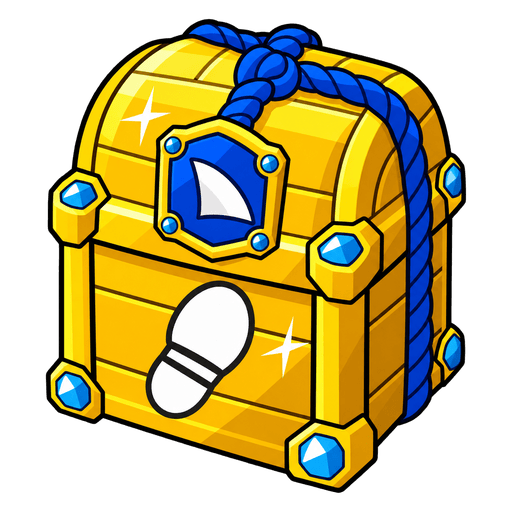
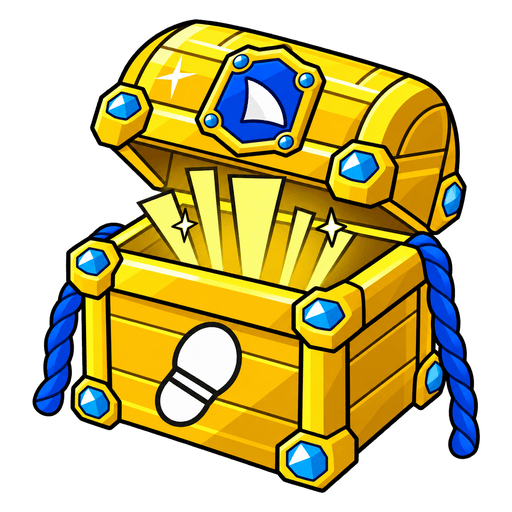
Trail Boxes R2: open-gold art, transform pill fill, time-limited glow, dropped-steps dot, one-tap open from the pill, next-up hint, home pill, honest catch-up wait for motion pref, preview fixture on R2 economy, plain-words names

diff --git a/src/screens/TrailPreviewScreen.tsx b/src/screens/TrailPreviewScreen.tsx
@@ -15,9 +15,10 @@ import type { TrailBox, TrailReward, TrailState, TrailTier } from '../services/t
  * Scenes: map, catchup (the walk lands after the app was closed), sheet,
  * ready, inside, ask (motion pre-ask), reveal (a Gold box), reveal3 (three in a row).
  */
-const SCENES = ['map', 'catchup', 'sheet', 'ready', 'inside', 'ask', 'reveal', 'reveal3'] as const;
+const SCENES = ['map', 'catchup', 'sheet', 'ready', 'inside', 'ask', 'reveal', 'reveal3', 'home'] as const;
 const START = (process.env.EXPO_PUBLIC_TRAIL_PREVIEW ?? 'map') as string;
 const noop = async () => undefined;
+const ASSETS = 'https://assets.themeparkshark.com/mobile/production/assets/';
 
 const box = (id: number, tier: TrailTier, goal: number, progress: number, status: TrailBox['status'], slot: number | null): TrailBox => ({
   id, tier, goal_steps: goal, progress_steps: progress, status, slot, source: 'arrival', earned_at: '2026-10-08T16:00:00Z',
@@ -41,29 +42,35 @@ function fixture(scene: string, step: number): TrailState {
     best_day: { park_day: '2026-10-08', steps, meters: Math.round(steps * 0.75) },
     lifetime: { steps: 84210, meters: 63158, boxes_opened: 11 },
     week: { steps: steps + 6100, goal_steps: 25000, goal_hit: false, goal_options: [10000, 25000, 50000] },
-    wheels: false, gold_in: 4, next_ride_box: 1,
+    wheels: false, gold_in: 3, next_ride_box: 1,
     odds: {
-      gold_pity: 10, exclusives: ['Propeller Hat', 'Party Inflatable Duck', 'Blue Inflatable Duck', 'Green Inflatable Duck'],
+      gold_pity: 8, exclusives: ['Propeller Hat', 'Party Inflatable Duck', 'Blue Inflatable Duck', 'Green Inflatable Duck'],
       tiers: [
-        { tier: 'blue', goal_steps: 2000, coins: 40, chance_bp: 6000, always: [], bonus: [
-          { kind: 'energy', amount: 10, chance_bp: 4000 }, { kind: 'tickets', amount: 1, chance_bp: 3000 }, { kind: 'coins', amount: 40, chance_bp: 2000 },
-          { kind: 'mystery_box', amount: 1, chance_bp: 800 }, { kind: 'exclusive', amount: 1, chance_bp: 200 }] },
-        { tier: 'red', goal_steps: 5000, coins: 100, chance_bp: 3000, always: [], bonus: [
-          { kind: 'mystery_box', amount: 1, chance_bp: 4000 }, { kind: 'tickets', amount: 2, chance_bp: 2500 },
-          { kind: 'energy', amount: 25, chance_bp: 2000 }, { kind: 'exclusive', amount: 1, chance_bp: 1500 }] },
-        { tier: 'gold', goal_steps: 10000, coins: 250, chance_bp: 1000, always: [{ kind: 'mystery_box', amount: 1 }], bonus: [
-          { kind: 'exclusive', amount: 1, chance_bp: 5000 }, { kind: 'mystery_box', amount: 2, chance_bp: 3000 }, { kind: 'tickets', amount: 3, chance_bp: 2000 }] },
+        { tier: 'blue', goal_steps: 2000, coins: 30, chance_bp: 6000, always: [], bonus: [
+          { kind: 'energy', amount: 10, chance_bp: 4000 }, { kind: 'tickets', amount: 1, chance_bp: 3200 }, { kind: 'coins', amount: 30, chance_bp: 2300 },
+          { kind: 'mystery_box', amount: 1, chance_bp: 500 }] },
+        { tier: 'red', goal_steps: 5000, coins: 75, chance_bp: 3000, always: [], bonus: [
+          { kind: 'tickets', amount: 2, chance_bp: 3000 }, { kind: 'mystery_box', amount: 1, chance_bp: 2500 },
+          { kind: 'energy', amount: 25, chance_bp: 2500 }, { kind: 'exclusive', amount: 1, chance_bp: 2000 }] },
+        { tier: 'gold', goal_steps: 10000, coins: 175, chance_bp: 1000, always: [{ kind: 'mystery_box', amount: 1 }], bonus: [
+          { kind: 'exclusive', amount: 1, chance_bp: 5500 }, { kind: 'mystery_box', amount: 1, chance_bp: 2500 }, { kind: 'tickets', amount: 3, chance_bp: 2000 }] },
       ],
     },
+    exclusives: [
+      { item_id: 168, name: 'Propeller Hat', icon_url: `${ASSETS}v4pmQB4e8CQ1UIWyUVei5GuXIva0UzrahR24DU0l.png`, owned: true },
+      { item_id: 54, name: 'Party Inflatable Duck', icon_url: `${ASSETS}AzMgxAaIRVnqTnsVxJI7I6PM8N11kU6nEZfhyBhC.png`, owned: false },
+      { item_id: 193, name: 'Blue Inflatable Duck', icon_url: `${ASSETS}mSiN8uw5KKnt5l7bFnCHDNAOl0XRzRpkGOSfWYM4.png`, owned: true },
+      { item_id: 191, name: 'Green Inflatable Duck', icon_url: `${ASSETS}PNPGlk5m14A5sNvkufUhhm7Bl31EA4eogoaHpYPX.png`, owned: false },
+    ],
     sync: scene === 'sheet' ? { credited_steps: 2410, ready_box_ids: [], goal_box: null, missed: [{ reason: 'ride', steps: 380 }] } : undefined,
   };
 }
 
 const REWARDS: Record<number, TrailReward[]> = {
-  9: [{ kind: 'coins', amount: 250 }, { kind: 'mystery_box', amount: 1 }, { kind: 'exclusive', amount: 1, name: 'Propeller Hat',
-    icon_url: 'https://assets.themeparkshark.com/mobile/production/assets/v4pmQB4e8CQ1UIWyUVei5GuXIva0UzrahR24DU0l.png' }],
-  10: [{ kind: 'coins', amount: 100 }, { kind: 'tickets', amount: 2 }],
-  11: [{ kind: 'coins', amount: 40 }, { kind: 'energy', amount: 10 }],
+  9: [{ kind: 'coins', amount: 175 }, { kind: 'mystery_box', amount: 1 }, { kind: 'exclusive', amount: 1, name: 'Party Inflatable Duck',
+    icon_url: 'https://assets.themeparkshark.com/mobile/production/assets/AzMgxAaIRVnqTnsVxJI7I6PM8N11kU6nEZfhyBhC.png' }],
+  10: [{ kind: 'coins', amount: 75 }, { kind: 'tickets', amount: 2 }],
+  11: [{ kind: 'coins', amount: 30 }, { kind: 'energy', amount: 10 }],
 };
 
 export default function TrailPreviewScreen() {
@@ -95,14 +102,15 @@ function Scene({ scene: SCENE, onNext }: { readonly scene: string; readonly onNe
 
   const preview = SCENE === 'sheet' || SCENE === 'ready' || SCENE === 'ask' ? 'sheet'
     : SCENE === 'inside' ? 'inside' : SCENE.startsWith('reveal') ? 'reveal' : undefined;
+  const home = SCENE === 'home';
   return (
-    <TrailContext.Provider value={value}>
+    <TrailContext.Provider value={home ? { ...value, parkId: null } : value}>
       <View style={styles.root}>
         <Map>{null}</Map>
         <View style={styles.column}>
           <View style={{ marginBottom: 12, gap: 6, alignItems: 'flex-end' }}>
-            <TrailHost active preview={preview} />
-            <MapResourcePill icon="energy" label="Energy" count={42} />
+            <TrailHost active preview={preview} inPark={!home} />
+            {!home && <MapResourcePill icon="energy" label="Energy" count={42} />}
           </View>
           <View style={styles.avatar} />
         </View>

diff --git a/src/components/trail/TrailPill.tsx b/src/components/trail/TrailPill.tsx
@@ -3,7 +3,7 @@ import { memo, useEffect, useRef } from 'react';
 import { Pressable, StyleSheet, Text, View } from 'react-native';
 import Animated, { useAnimatedStyle, useSharedValue, withRepeat, withSequence, withSpring, withTiming, cancelAnimation } from 'react-native-reanimated';
 import useReducedGameMotion from '../../hooks/useReducedGameMotion';
-import { boxFraction, headlineBox, milestonesCrossed, shortSteps, stepsToGo, type TrailState } from '../../services/trail/trailModel';
+import { boxFraction, headlineBox, milestonesCrossed, missNote, shortSteps, stepsToGo, type TrailState } from '../../services/trail/trailModel';
 import { BRAND, SHADOW } from '../../ui';
 import TrailBoxArt from './TrailBoxArt';
 
@@ -47,17 +47,19 @@ function TrailPill({ state, active, onPress }: {
     cancelAnimation(glow);
     glow.value = 0;
     if (ready && active && !reduced) {
-      glow.value = withRepeat(withSequence(withTiming(1, { duration: 650 }), withTiming(0, { duration: 650 })), -1);
+      // About 8 s of pulse, then a steady gold pill (no endless redraw on the map).
+      glow.value = withRepeat(withSequence(withTiming(1, { duration: 650 }), withTiming(0, { duration: 650 })), 6);
     }
     return () => cancelAnimation(glow);
   }, [ready, active, reduced, glow]);
 
   const wrapStyle = useAnimatedStyle(() => ({ transform: [{ scale: pop.value }] }));
-  const fillStyle = useAnimatedStyle(() => ({ width: `${Math.round(Math.min(1, fill.value) * 100)}%` }));
+  const fillStyle = useAnimatedStyle(() => ({ transform: [{ scaleX: Math.max(0.04, Math.min(1, fill.value)) }] }));
   const glowStyle = useAnimatedStyle(() => ({ opacity: 0.35 + glow.value * 0.65 }));
 
   const label = ready ? (ready > 1 ? `OPEN ${ready}` : 'OPEN!') : box ? shortSteps(stepsToGo(box)) : 'Walk';
-  const a11y = ready
+  const dropped = missNote(state.sync);
+  const a11y = dropped && !ready ? `Trail Box: ${box ? stepsToGo(box) : 0} steps to go. Some steps did not count, tap to see why` : ready
     ? `${ready} Trail ${ready === 1 ? 'Box is' : 'Boxes are'} ready to open`
     : box ? `Trail Box: ${stepsToGo(box)} steps to go` : 'Trail Boxes';
 
@@ -71,6 +73,7 @@ function TrailPill({ state, active, onPress }: {
           <Text style={[styles.count, ready ? styles.countReady : null]} numberOfLines={1} adjustsFontSizeToFit>{label}</Text>
           {!ready && !!box && <Text style={styles.unit}>to go</Text>}
         </View>
+        {!!missNote(state.sync) && !ready && <View style={styles.dot} accessibilityElementsHidden />}
         <View style={styles.icon}>
           {box ? <TrailBoxArt tier={box.tier} size={38} fraction={fraction} ready={!!ready} active={active} />
             : <TrailBoxArt tier="blue" size={38} dim active={false} />}
@@ -90,11 +93,13 @@ const styles = StyleSheet.create({
     justifyContent: 'center', ...SHADOW.card },
   pillReady: { backgroundColor: BRAND.gold, borderColor: BRAND.white },
   track: { position: 'absolute', left: 24, right: 10, bottom: 3, height: 5, borderRadius: 3, backgroundColor: BRAND.blueLip, overflow: 'hidden' },
-  fill: { position: 'absolute', left: 0, top: 0, bottom: 0, borderRadius: 3, backgroundColor: BRAND.gold },
+  fill: { position: 'absolute', left: 0, top: 0, bottom: 0, right: 0, borderRadius: 3, backgroundColor: BRAND.gold, transformOrigin: 'left' },
   glow: { backgroundColor: BRAND.goldLight },
   count: { fontFamily: 'Shark', fontSize: 18, color: BRAND.white, marginBottom: 3,
     textShadowColor: BRAND.navy, textShadowOffset: { width: 1, height: 2 }, textShadowRadius: 0 },
   countReady: { color: BRAND.navy, textShadowColor: BRAND.white, textShadowOffset: { width: 0, height: 1 } },
   unit: { fontFamily: 'Knockout', fontSize: 12, color: BRAND.white, marginLeft: 3, marginBottom: 1 },
   icon: { position: 'absolute', left: -2, top: -1 },
+  dot: { position: 'absolute', right: -3, top: 1, width: 14, height: 14, borderRadius: 7, backgroundColor: BRAND.red,
+    borderWidth: 2, borderColor: BRAND.white },
 });

diff --git a/src/components/trail/TrailSheet.tsx b/src/components/trail/TrailSheet.tsx
@@ -6,7 +6,7 @@ import { playSfx } from '../../gamekit/SFX';
 import { openAppSettings } from '../../services/external';
 import type { MotionAccess } from '../../services/trail/TrailProvider';
 import {
-  BOX_NAME, bonusLabel, boxFraction, formatDistance, formatSteps, missNote, percent, stepsToGo, usesMiles,
+  BOX_NAME, boxName, bonusLabel, boxFraction, formatDistance, formatSteps, missNote, percent, stepsToGo, usesMiles,
   type TrailBox, type TrailState, type TrailTier,
 } from '../../services/trail/trailModel';
 import { BRAND, GameButton, GameIcon, RADIUS, SHADOW, confirmGame, type GameIconName } from '../../ui';
@@ -127,7 +127,7 @@ function TrailSheet({ visible, state, motion, inPark, onClose, onOpen, onFront, 
             <View style={styles.slots}>
               {slots.map((b, i) => (
                 <View key={b ? b.id : `empty-${i}`} style={[styles.slot, !b && styles.slotEmpty]} accessible
-                  accessibilityLabel={b ? `${BOX_NAME[b.tier]}: ${formatSteps(stepsToGo(b))} steps to go` : 'Empty spot. Win rides to earn boxes'}>
+                  accessibilityLabel={b ? `${boxName(b)}: ${formatSteps(stepsToGo(b))} steps to go` : 'Empty spot. Win rides to earn boxes'}>
                   {b ? (
                     <>
                       <TrailBoxArt tier={b.tier} size={74} fraction={boxFraction(b)} active={visible} />
@@ -153,7 +153,7 @@ function TrailSheet({ visible, state, motion, inPark, onClose, onOpen, onFront, 
                   <ScrollView horizontal showsHorizontalScrollIndicator={false} contentContainerStyle={{ gap: 8, paddingVertical: 4 }}>
                     {state.waiting.map((b, i) => (
                       <Pressable key={b.id} accessibilityRole="button"
-                        accessibilityLabel={`${BOX_NAME[b.tier]}, ${formatSteps(b.goal_steps)} steps.${i > 0 ? ' Tap to walk it next' : ' Walks next'}`}
+                        accessibilityLabel={`${boxName(b)}, ${formatSteps(b.goal_steps)} steps.${i > 0 ? ' Tap to walk it next' : ' Walks next'}`}
                         onPress={() => { playSfx('ui.select'); setPicked(picked === b.id ? null : b.id); }}
                         style={[styles.waitBox, picked === b.id && styles.waitPicked]}>
                         <TrailBoxArt tier={b.tier} size={52} active={false} />
@@ -313,7 +313,7 @@ function Inside({ state }: { readonly state: TrailState }) {
       <Text style={styles.section}>Which box you get</Text>
       <View style={[styles.card, { flexDirection: 'row', justifyContent: 'space-around' }]}>
         {tiers.map(t => (
-          <View key={t.tier} style={{ alignItems: 'center' }} accessible accessibilityLabel={`${BOX_NAME[t.tier]}: ${percent(t.chance_bp)}`}>
+          <View key={t.tier} style={{ alignItems: 'center' }} accessible accessibilityLabel={`${boxName(t)}: ${percent(t.chance_bp)}`}>
             <TrailBoxArt tier={t.tier} size={64} active={false} />
             <Text style={styles.oddsPct}>{percent(t.chance_bp)}</Text>
           </View>

diff --git a/src/components/trail/TrailHost.tsx b/src/components/trail/TrailHost.tsx
@@ -1,7 +1,7 @@
-import { useCallback, useState } from 'react';
+import { memo, useCallback, useMemo, useState } from 'react';
 import { playSfx } from '../../gamekit/SFX';
 import { useTrail } from '../../services/trail/TrailProvider';
-import type { TrailBox, TrailReward } from '../../services/trail/trailModel';
+import { boxName, formatSteps, headlineBox, stepsToGo, type TrailBox, type TrailReward } from '../../services/trail/trailModel';
 import { gameAlert } from '../../ui';
 import TrailPill from './TrailPill';
 import TrailReveal from './TrailReveal';
@@ -13,7 +13,7 @@ import TrailSheet from './TrailSheet';
  * the first state arrives. `active` pauses every idle animation when the map
  * is covered or not focused.
  */
-export default function TrailHost({ active, inPark = true, preview }: {
+function TrailHost({ active, inPark = true, preview }: {
   readonly active: boolean;
   readonly inPark?: boolean;
   /** Dev previews only: start with the sheet, its odds page, or the reveal open. */
@@ -24,10 +24,16 @@ export default function TrailHost({ active, inPark = true, preview }: {
   const [opening, setOpening] = useState<readonly TrailBox[] | null>(preview === 'reveal' ? trail.state?.ready ?? null : null);
 
   const show = useCallback(() => {
+    // Ready boxes: the pill goes straight to the opening (one tap, not three).
+    if (trail.state?.ready.length) { setOpening(trail.state.ready); return; }
     playSfx('ui.modalOpen');
     setOpen(true);
     void trail.flush();
   }, [trail]);
+  const nextHint = useMemo(() => {
+    const b = trail.state ? headlineBox({ ready: [], walking: trail.state.walking }) : null;
+    return b ? `Next up: ${boxName(b)}, ${formatSteps(stepsToGo(b))} steps to go` : null;
+  }, [trail.state]);
 
   const openBox = useCallback(async (boxId: number): Promise<readonly TrailReward[]> => {
     const next = await trail.open(boxId);
@@ -39,6 +45,9 @@ export default function TrailHost({ active, inPark = true, preview }: {
   }, []);
 
   if (!trail.enabled || !trail.state) return null;
+  // At home the pill shows only when you already have boxes (they wait for the next park day).
+  const any = trail.state.walking.length + trail.state.waiting.length + trail.state.ready.length;
+  if (!inPark && any === 0) return null;
   return (
     <>
       <TrailPill state={trail.state} active={active && !open && !opening} onPress={show} />
@@ -49,8 +58,10 @@ export default function TrailHost({ active, inPark = true, preview }: {
         onGoal={g => act(() => trail.setGoal(g))}
         onWheels={on => act(() => trail.setWheels(on))}
         onAskMotion={() => void trail.askMotion()} initialView={preview === 'inside' ? 'inside' : 'boxes'} />
-      {opening && <TrailReveal boxes={opening} onOpen={openBox}
+      {opening && <TrailReveal boxes={opening} onOpen={openBox} nextHint={nextHint}
         onClose={() => { setOpening(null); void trail.refresh(); }} />}
     </>
   );
 }
+
+export default memo(TrailHost);

diff --git a/src/components/trail/TrailPath.tsx b/src/components/trail/TrailPath.tsx
@@ -3,7 +3,7 @@ import { Image } from 'expo-image';
 import { memo, useEffect, useState } from 'react';
 import { View, type LayoutChangeEvent } from 'react-native';
 import Animated, { Easing, runOnJS, useAnimatedStyle, useSharedValue, withSequence, withSpring, withTiming } from 'react-native-reanimated';
-import useReducedGameMotion from '../../hooks/useReducedGameMotion';
+import { useReduceMotionPreference } from '../../hooks/useReducedGameMotion';
 import { milestonesCrossed } from '../../services/trail/trailModel';
 import { BRAND } from '../../ui';
 import { STEPS_ART } from './TrailBoxArt';
@@ -36,7 +36,9 @@ function TrailPath({ fraction, height = 16, ready = false, seenKey, onFilled }: 
   /** Called once when the fill animation reaches the end. */
   readonly onFilled?: () => void;
 }) {
-  const reduced = useReducedGameMotion();
+  // null until the real setting is known: wait instead of snapping (R1 found the catch-up never played).
+  const pref = useReduceMotionPreference();
+  const reduced = pref === true;
   const [width, setWidth] = useState(0);
   const target = Math.max(0, Math.min(1, ready ? 1 : fraction));
   const start = seenFraction(seenKey) ?? target;
@@ -44,6 +46,7 @@ function TrailPath({ fraction, height = 16, ready = false, seenKey, onFilled }: 
   const bump = useSharedValue(1);
 
   useEffect(() => {
+    if (pref === null) return;
     const from = Math.max(seenFraction(seenKey) ?? fill.value, 0);
     const next = Math.max(from, target);
     if (seenKey) lastSeen.set(seenKey, next);
@@ -59,7 +62,7 @@ function TrailPath({ fraction, height = 16, ready = false, seenKey, onFilled }: 
       if (done && next >= 1 && onFilled) runOnJS(onFilled)();
     });
     bump.value = withSequence(withTiming(1.25, { duration: 160 }), withSpring(1, { damping: 8, stiffness: 240 }));
-  }, [target, reduced, seenKey]); // eslint-disable-line react-hooks/exhaustive-deps
+  }, [target, pref, seenKey]); // eslint-disable-line react-hooks/exhaustive-deps
 
   const fillStyle = useAnimatedStyle(() => ({ width: Math.max(height, fill.value * width) }));
   const sharkSize = height * 1.9;

diff --git a/src/components/trail/TrailReveal.tsx b/src/components/trail/TrailReveal.tsx
@@ -10,7 +10,7 @@ import { useSafeAreaInsets } from 'react-native-safe-area-context';
 import { Canvas, Circle, RadialGradient, vec } from '@shopify/react-native-skia';
 import { GameAudio } from '../../gamekit/audio/GameAudio';
 import useReducedGameMotion from '../../hooks/useReducedGameMotion';
-import { BOX_NAME, formatSteps, rewardLabel, type TrailBox, type TrailReward } from '../../services/trail/trailModel';
+import { BOX_NAME, boxName, formatSteps, rewardLabel, type TrailBox, type TrailReward } from '../../services/trail/trailModel';
 import { BRAND, GameButton, GameIcon, type GameIconName } from '../../ui';
 import RewardBurst from '../RewardBurst';
 import { BOX_ART, BOX_OPEN_ART } from './TrailBoxArt';
@@ -196,7 +196,7 @@ export default function TrailReveal({ boxes, onOpen, onClose, nextHint }: {
     <Modal visible transparent animationType="fade" statusBarTranslucent onRequestClose={showRewards ? next : onClose}>
       <Pressable style={[styles.scrim, { paddingTop: insets.top + 20, paddingBottom: insets.bottom + 20 }]}
         onPress={phase === 'ready' ? start : skipAhead} accessibilityRole="button"
-        accessibilityLabel={phase === 'ready' ? `Open your ${BOX_NAME[box.tier]}` : BOX_NAME[box.tier]}>
+        accessibilityLabel={phase === 'ready' ? `Open your ${boxName(box)}` : BOX_NAME[box.tier]}>
         <Text style={styles.kicker}>{BOX_NAME[box.tier]}{boxes.length > 1 ? `  ${index + 1} of ${boxes.length}` : ''}</Text>
         <Text style={styles.title}>{phase === 'ready' ? 'Tap to open!' : showRewards ? 'You got' : ' '}</Text>
         <View style={{ width: '100%', height: size * 1.05, alignItems: 'center', justifyContent: 'center' }}>

diff --git a/src/screens/ExploreScreen.tsx b/src/screens/ExploreScreen.tsx
@@ -1190,6 +1190,12 @@ function ExploreScreen() {
           parkStory={activeParkProject ? { title: activeParkProject.title, points: activeParkProject.total_points,
             goal: activeParkProject.goal_points, onPress: openParkStory } : null} />
       )}
+      {/* Trail Boxes at home: your boxes wait for the next park day (pill above the avatar menu; only when you have boxes). */}
+      {player && !park && permissionGranted && (
+        <View pointerEvents="box-none" style={{ position: 'absolute', right: 16, bottom: 194, zIndex: 10, alignItems: 'flex-end' }}>
+          <TrailHost active={mapFocused} inPark={false} />
+        </View>
+      )}
       {/* Guest: a bright sign-in invitation over the live map */}
       {!player && <GuestInvite />}
       

diff --git a/src/services/trail/trailModel.ts b/src/services/trail/trailModel.ts
@@ -70,6 +70,11 @@ export interface TrailSyncResult {
 }
 
 export const BOX_NAME: Record<TrailTier, string> = { blue: 'Blue Box', red: 'Red Box', gold: 'Gold Box' };
+/** "Blue Box", "Red Box", "Gold Box" for anything with a box colour. */
+export function boxName(b: { readonly tier: TrailTier }): string {
+  return BOX_NAME[b.tier];
+}
+
 /** Draw size grows with rarity, so the tier reads by size and trim as well as colour. */
 export const TIER_SCALE: Record<TrailTier, number> = { blue: 0.86, red: 0.94, gold: 1 };
 
